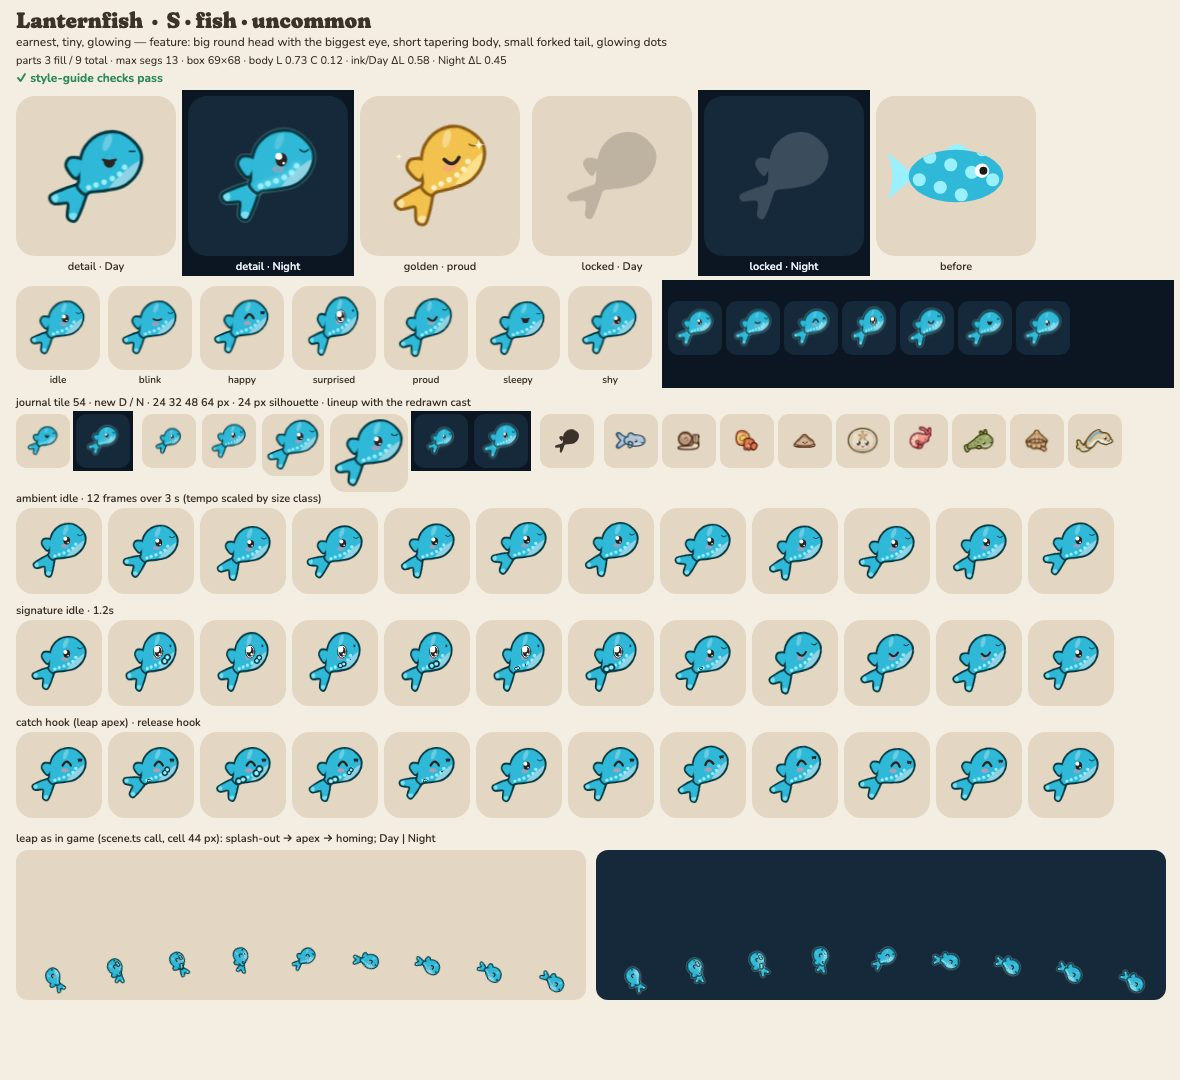
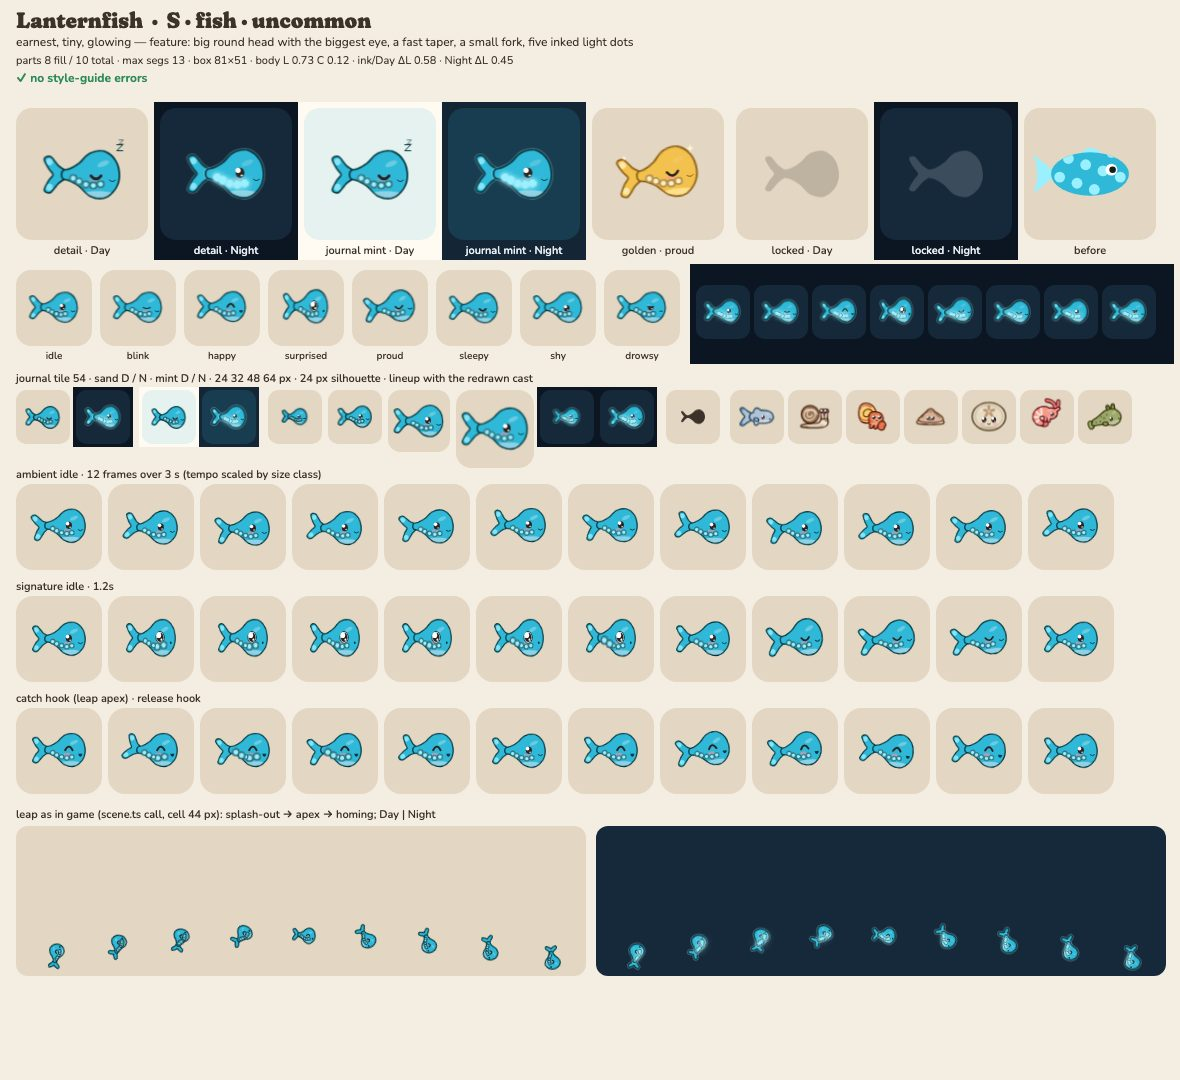
render: lanternfish art redo — level, big head, inked photophores (ADR 0011)
CRITIQUE-1 C: level (0 deg), head half the fish, eye 11.2 u (floor 10.0), five photophores as inked light fills inside the flank (3 blink groups) with outline:false glow halos for Night, small fork on a narrow root. Lint clean. Closest: grouper 0.68, flounder 0.67.

diff --git a/src/render/art/species/lanternfish.ts b/src/render/art/species/lanternfish.ts
@@ -1,117 +1,115 @@
 /**
- * Lanternfish — a tiny earnest night-light from the deep (fish class, profile view).
- * Silhouette (R10): a big round head with the cast's biggest eye (24 %), a short body that tapers
- * fast into a small, crisp forked tail. Chibi-proportioned: the head is half the fish.
- * Personality: earnest, tiny, glowing. Signature: its row of photophores blinks on in sequence,
- * front to back, like a string of fairy lights. Awake at night, sleepy by day (R32).
+ * Lanternfish — a tiny earnest night-light from the deep (fish class, profile view, level).
+ * Silhouette (R10): a big round head (half the fish) carrying the cast's biggest eye (24 %), a short
+ * body that tapers fast, a small crisp forked tail. Five photophores ride the lower flank as inked
+ * light dots that read on Day and glow at night.
+ * Personality: earnest, tiny, glowing. Signature: the photophores blink on in sequence, front to
+ * back, like a string of fairy lights. Awake at night, sleepy by day (R32).
  */
-import { blob, circle, defineArt, ellipse, join, xform } from '../kit.ts';
-
-// lanternfish rise toward the surface every night: it swims nose-up at a steep TILT, which is
-// also what keeps its round head apart from the clownfish and grouper at 24 px (R12)
-const TILT = -45;
-const R = (d: string) => xform(d, { rot: TILT });
-const tc = Math.cos((TILT * Math.PI) / 180),
-  ts = Math.sin((TILT * Math.PI) / 180);
-/** An anchor on the drawing grid, mapped like the paths. */
-const P = (x: number, y: number): [number, number] => [x * tc - y * ts, x * ts + y * tc];
+import { blob, circle, defineArt, ellipse, join } from '../kit.ts';
 
 // big round head (centre ≈ +12) on a short body that narrows to the tail root at −22
 const body = blob([
-  [34, 2],
-  [31, -11],
-  [20, -20],
-  [6, -21],
-  [-6, -15],
+  [37, 1],
+  [33, -15],
+  [21, -25],
+  [6, -23],
+  [-6, -12],
   [-16, -6],
-  [-20, -3.5],
-  [-20, 3.5],
-  [-16, 5],
-  [-6, 13],
-  [6, 20],
-  [20, 20],
-  [31, 13],
+  [-24, -3.5],
+  [-24, 3.5],
+  [-16, 6],
+  [-6, 12],
+  [6, 23],
+  [21, 25],
+  [33, 15],
 ]);
-// small crisp fork with rounded tips
+// small crisp fork with plump rounded tips
 const tail = blob(
   [
-    [-17, -3.5],
-    [-19, -4],
+    [-21, -3],
     [-29, -9],
-    [-40, -13],
-    [-42, -8],
+    [-38, -19],
+    [-44, -17],
+    [-39, -7],
     [-34, 0],
-    [-42, 8],
-    [-40, 13],
+    [-39, 7],
+    [-44, 17],
+    [-38, 19],
     [-29, 9],
-    [-19, 4],
-    [-17, 3.5],
+    [-21, 3],
   ],
   0.9,
 );
-const dorsal = blob(
-  [
-    [-4, -15],
-    [-9, -23],
-    [-15, -21],
-    [-16, -10],
-  ],
-  0.9,
-);
-// photophores: a row of glowing dots along the lower flank, behind the face (R18 glow, baked at
-// night). They're patterns (no outline) so they never read as a toothy grin; the blink-in-sequence
-// is three prop flashes that pop over them front to back.
+// five photophores along the lower flank, in three groups so they can blink in sequence
 const DOTS: readonly (readonly [number, number])[] = [
-  [16, 11],
-  [9.5, 12],
-  [3, 10.5],
-  [-3.5, 8],
-  [-9.5, 5],
-  [-15, 2.5],
+  [17, 11],
+  [9, 12.5],
+  [1, 11],
+  [-6.5, 7.5],
+  [-13, 4],
 ];
-const photophores = join(...DOTS.map(([x, y]) => circle(x, y, 2.2)));
-const flash = (i: number, j: number) =>
-  join(circle(DOTS[i]![0], DOTS[i]![1], 2.8), circle(DOTS[j]![0], DOTS[j]![1], 2.8));
-const phFront = flash(0, 1);
-const phMid = flash(2, 3);
-const phBack = flash(4, 5);
+const dot = (i: number) => circle(DOTS[i]![0], DOTS[i]![1], 2.7);
+const halo = (i: number) => circle(DOTS[i]![0], DOTS[i]![1], 4.6);
+const phA = join(dot(0), dot(1));
+const phB = join(dot(2));
+const phC = join(dot(3), dot(4));
 
 export default defineArt({
   id: 'lanternfish',
   klass: 'fish',
   size: 'S',
-  feature: 'big round head with the biggest eye, short tapering body, small forked tail, glowing dots',
+  feature: 'big round head with the biggest eye, a fast taper, a small fork, five inked light dots',
   personality: ['earnest', 'tiny', 'glowing'],
   palette: { body: '#2FB8D8', accent: '#9BF0FF' },
   nocturnal: true,
   groups: [
     {
       id: 'tail',
-      pivot: P(-18, 0),
+      pivot: [-21, 0],
       parts: [
-        { d: R(tail), role: 'body' },
-        { d: R(join(ellipse(-40, -11, 4, 4), ellipse(-40, 11, 4, 4))), role: 'accent', kind: 'pattern', alpha: 0.7 },
+        { d: tail, role: 'body' },
+        { d: join(ellipse(-39, -14, 4, 4), ellipse(-39, 14, 4, 4)), role: 'accent', kind: 'pattern', alpha: 0.8 },
       ],
     },
     {
       id: 'body',
       parts: [
-        { d: R(dorsal), role: 'body' },
-        { d: R(body), role: 'body' },
-        { d: R(ellipse(8, 20, 26, 7)), role: 'belly', kind: 'pattern' },
-        { d: R(photophores), role: 'light', kind: 'pattern' },
+        { d: body, role: 'body' },
+        { d: ellipse(14, 24, 22, 6), role: 'belly', kind: 'pattern' },
       ],
     },
-    { id: 'ph1', pivot: P(13, 11.5), prop: true, parts: [{ d: R(phFront), role: 'light' }] },
-    { id: 'ph2', pivot: P(0, 9), prop: true, parts: [{ d: R(phMid), role: 'light' }] },
-    { id: 'ph3', pivot: P(-12, 4), prop: true, parts: [{ d: R(phBack), role: 'light' }] },
+    {
+      id: 'phA',
+      pivot: [13, 12],
+      parts: [
+        { d: join(halo(0), halo(1)), role: 'light', outline: false, alpha: 0.35 },
+        { d: phA, role: 'light' },
+      ],
+    },
+    {
+      id: 'phB',
+      pivot: [1, 11],
+      parts: [
+        { d: halo(2), role: 'light', outline: false, alpha: 0.35 },
+        { d: phB, role: 'light' },
+      ],
+    },
+    {
+      id: 'phC',
+      pivot: [-10, 6],
+      parts: [
+        { d: join(halo(3), halo(4)), role: 'light', outline: false, alpha: 0.35 },
+        { d: phC, role: 'light' },
+      ],
+    },
   ],
-  shine: R(ellipse(20, -12, 7, 3, -24)),
+  shine: ellipse(20, -12, 7, 3, -24),
   face: {
-    eyes: [P(11, -1)],
-    eye: 10.5,
-    zone: [-4, -34, 36, 44],
-    mouth: { at: P(29, 6), w: 6.5, shape: 'smile' },
+    eyes: [[12, -1]],
+    eye: 11.2,
+    zone: [-2, -28, 38, 47],
+    mouth: { at: [30, 6], w: 6.5, shape: 'smile' },
     sweet: true,
   },
   idle: {
@@ -124,30 +122,30 @@ export default defineArt({
       every: [4, 7],
       tracks: [
         {
-          g: 'ph1',
+          g: 'phA',
           p: 's',
           k: [
-            [0, 0],
-            [0.12, 1.15],
-            [0.3, 0],
+            [0, 1],
+            [0.12, 1.5],
+            [0.3, 1],
           ],
         },
         {
-          g: 'ph2',
+          g: 'phB',
           p: 's',
           k: [
-            [0.2, 0],
-            [0.32, 1.15],
-            [0.5, 0],
+            [0.2, 1],
+            [0.32, 1.5],
+            [0.5, 1],
           ],
         },
         {
-          g: 'ph3',
+          g: 'phC',
           p: 's',
           k: [
-            [0.4, 0],
-            [0.52, 1.15],
-            [0.7, 0],
+            [0.4, 1],
+            [0.52, 1.5],
+            [0.7, 1],
           ],
         },
         {
@@ -170,21 +168,21 @@ export default defineArt({
     dur: 0.5,
     tracks: [
       {
-        g: 'ph1',
+        g: 'phA',
         p: 's',
         k: [
-          [0, 0],
-          [0.3, 1.15],
-          [1, 0],
+          [0, 1],
+          [0.3, 1.5],
+          [1, 1],
         ],
       },
       {
-        g: 'ph3',
+        g: 'phC',
         p: 's',
         k: [
-          [0, 0],
-          [0.5, 1.15],
-          [1, 0],
+          [0, 1],
+          [0.5, 1.5],
+          [1, 1],
         ],
       },
       {
